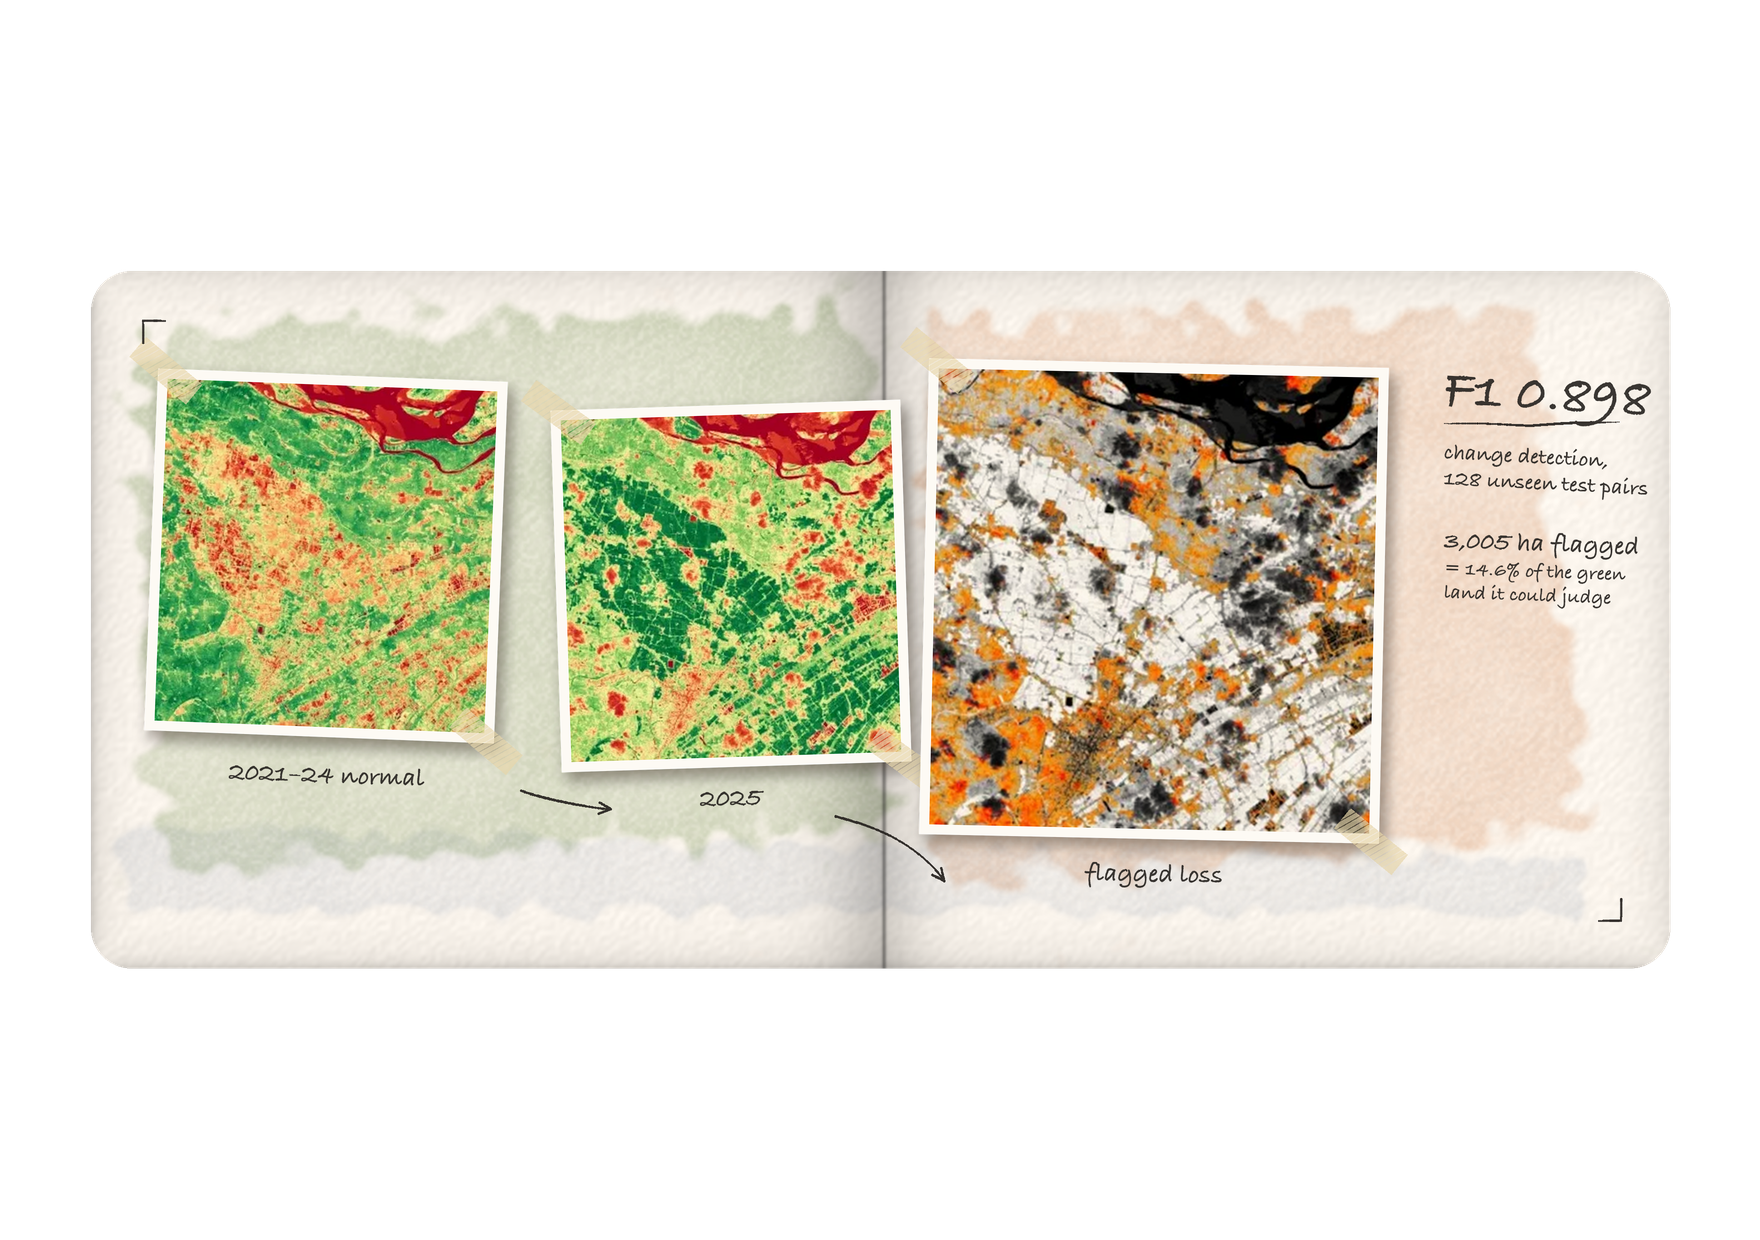
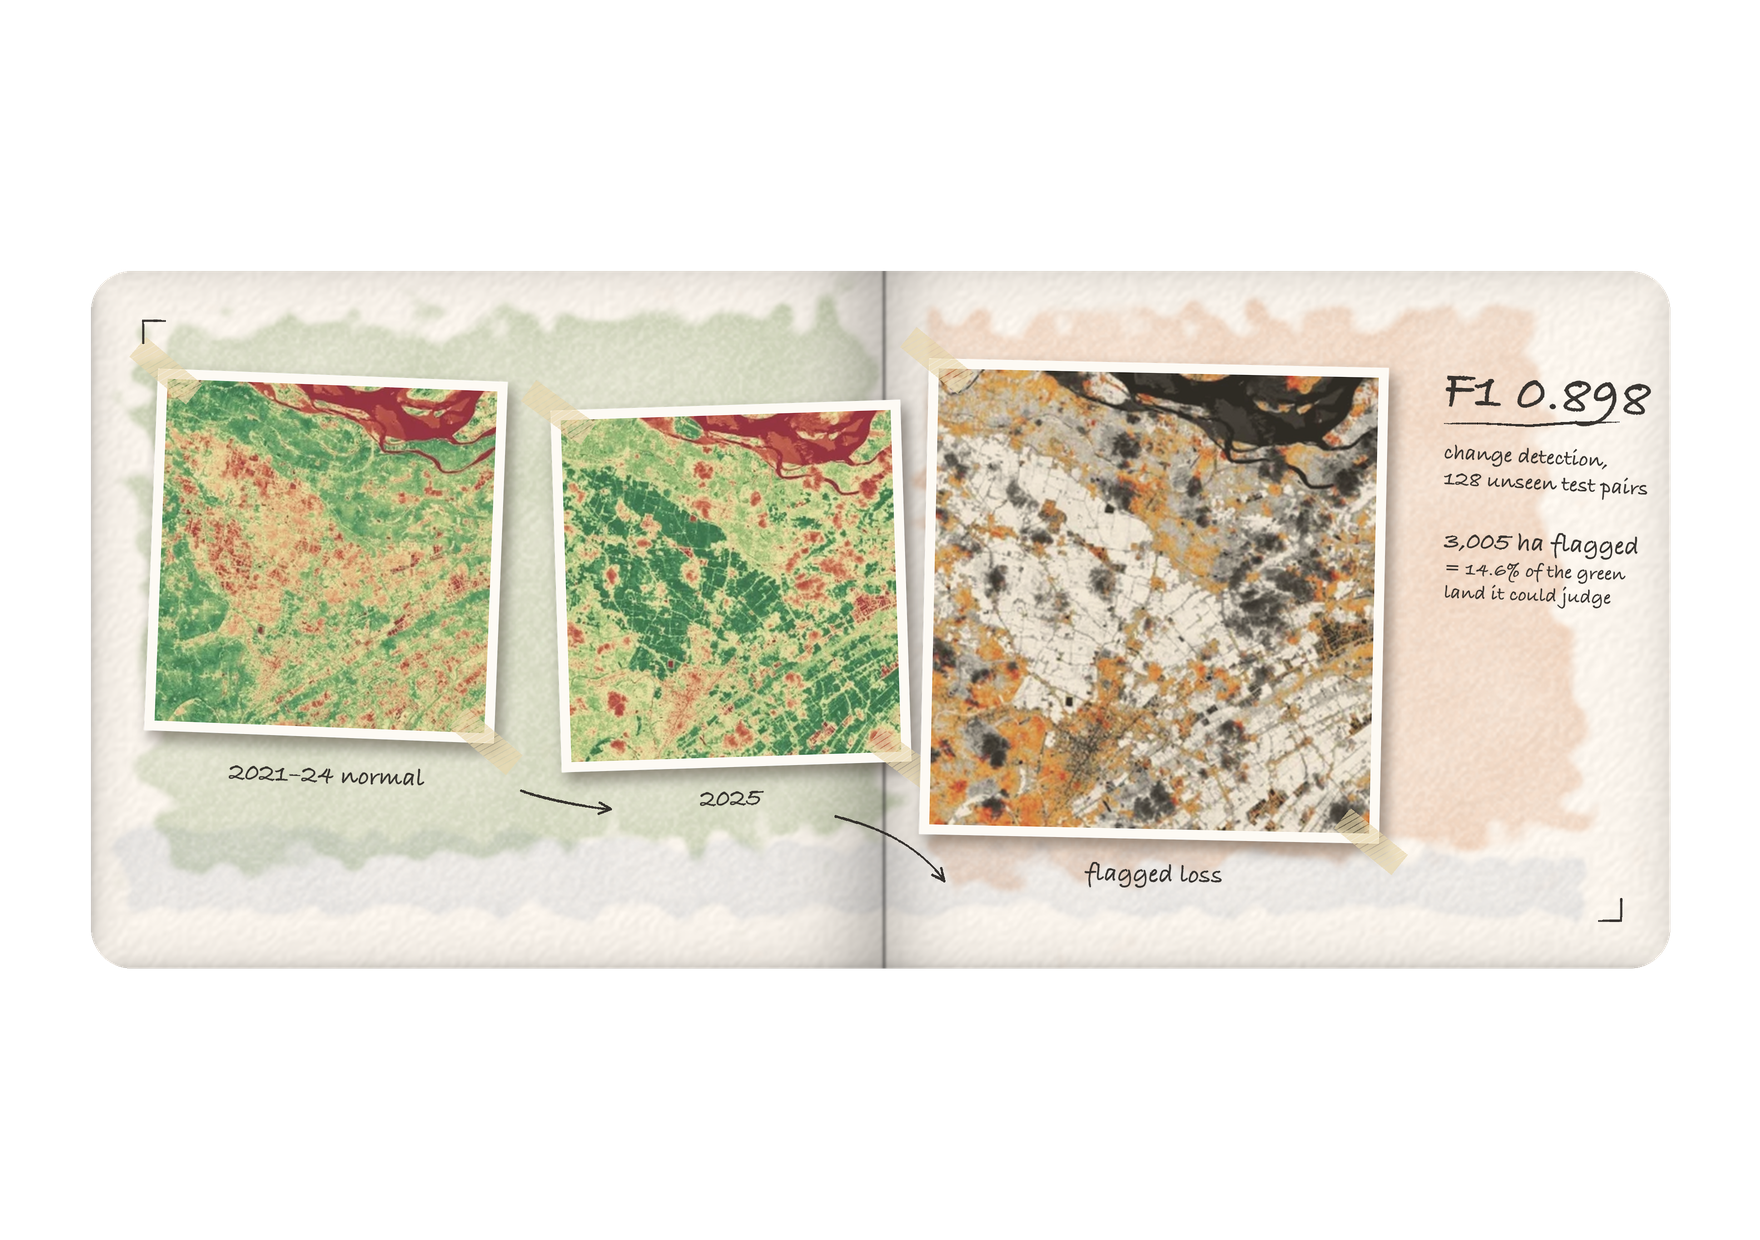
Sketchbook: toned printed figures, bigger book higher up, magnifier rests clear of the notes, AA contrast for small text (the '1 Issue')

Changed region(s): [[0.3125, 0.2758, 0.7812, 0.6742], [0.0625, 0.3065, 0.2812, 0.5823]]

diff --git a/public/sketchbook/sketchbook.html b/public/sketchbook/sketchbook.html
@@ -19,7 +19,7 @@
   --ink-soft:rgba(43,39,33,.58);
   --ink-faint:rgba(43,39,33,.36);
   --hairline:rgba(43,39,33,.14);
-  --earth:#9a6a3e;
+  --earth:#7a4f2c;
   --display:'Instrument Serif',"New York",Georgia,'Times New Roman',serif;
   --font:'Newsreader',"New York",Georgia,'Times New Roman',serif;
   --track-caps:.24em;
@@ -429,6 +429,14 @@ button{font:inherit}
 
 .foot{font-size:11.5px;letter-spacing:var(--track-caps);text-transform:uppercase;
   color:var(--ink-faint);text-align:center;padding-bottom:44px}
+html:root{--ink-soft:rgba(43,39,33,.82);--ink-faint:rgba(43,39,33,.72)}
+@media (min-width:641px){
+  .hero{align-content:start;padding-top:clamp(88px,9.5svh,112px)}
+  .hero-kicker{margin:clamp(8px,1.2svh,14px) 0 clamp(6px,1svh,12px)}
+  .sb-3d{max-width:min(1280px,calc(100vw - 96px))}
+  .sb-stage{margin-top:-8vw}
+  .sb-captions{margin-top:-8.5vw}
+}
 </style>
 </head>
 <body>
@@ -881,7 +889,7 @@ function bookBox(){
 /* park it on the desk at the lower right, half off the book */
 function restLoupe(){
   const b=bookBox();
-  lx=b.x+b.w*0.88; ly=b.y+b.h*0.855;
+  lx=b.x+b.w*0.93; ly=b.y+b.h*0.94;
   placeLoupe();
 }
 /* The glass sits above the tilt, in the book's untransformed pixels, so the

diff --git a/scripts/sketchbook/plates.py b/scripts/sketchbook/plates.py
@@ -22,8 +22,12 @@ def paste_print(base, path, xy, width, rot=0, seed=0, tape=True, border=10, size
     ratio = im.height / im.width
     w = int(width * S); h = int(width * ratio * S)
     im = im.resize((w, h), Image.LANCZOS)
-    # a little paper-print softness and warmth, so it sits in the page
-    im = ImageChops.multiply(im, Image.new("RGB", im.size, (252, 247, 238)))
+    # tone it like a real print taped into a sketchbook: less saturated, a warm paper tint, a touch softer, still readable
+    from PIL import ImageEnhance
+    im = ImageEnhance.Color(im).enhance(0.72)
+    im = ImageEnhance.Contrast(im).enhance(0.93)
+    im = Image.blend(im, Image.new("RGB", im.size, (240, 224, 196)), 0.16)           # warm cream wash over the ink
+    im = ImageChops.multiply(im, Image.new("RGB", im.size, (252, 245, 232)))          # paper tint
     b = border * S
     card = Image.new("RGBA", (w + 2 * b, h + 2 * b), (253, 250, 244, 255))
     card.paste(im, (b, b))
